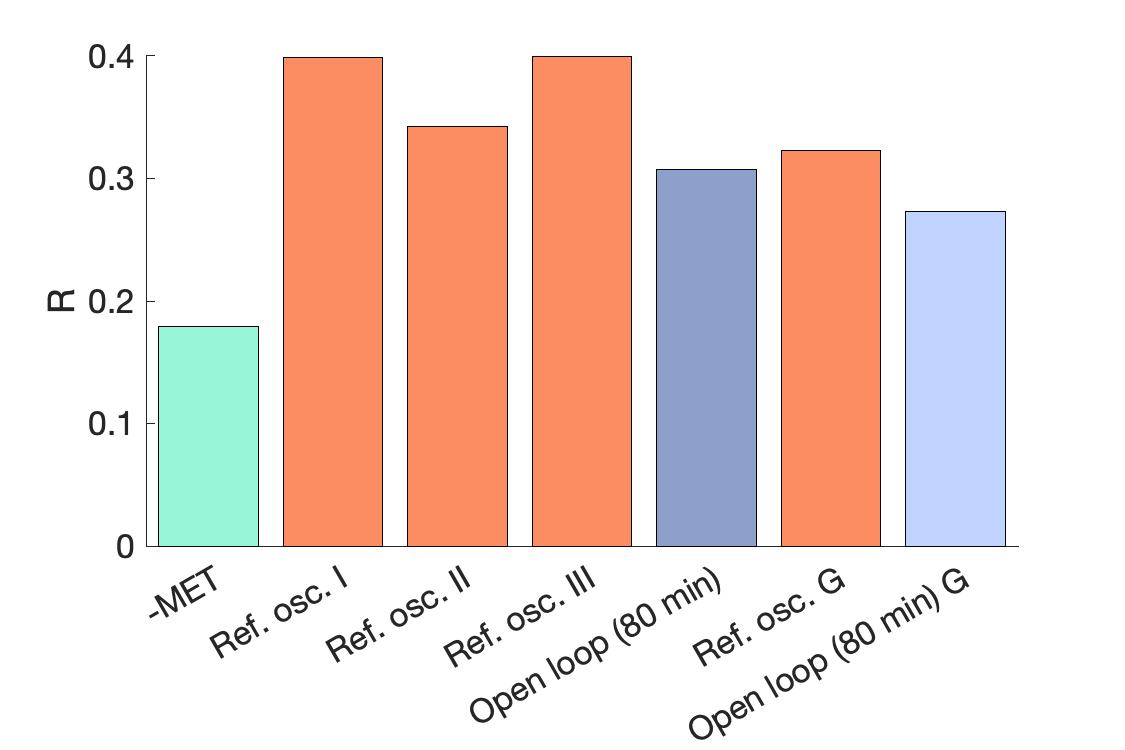
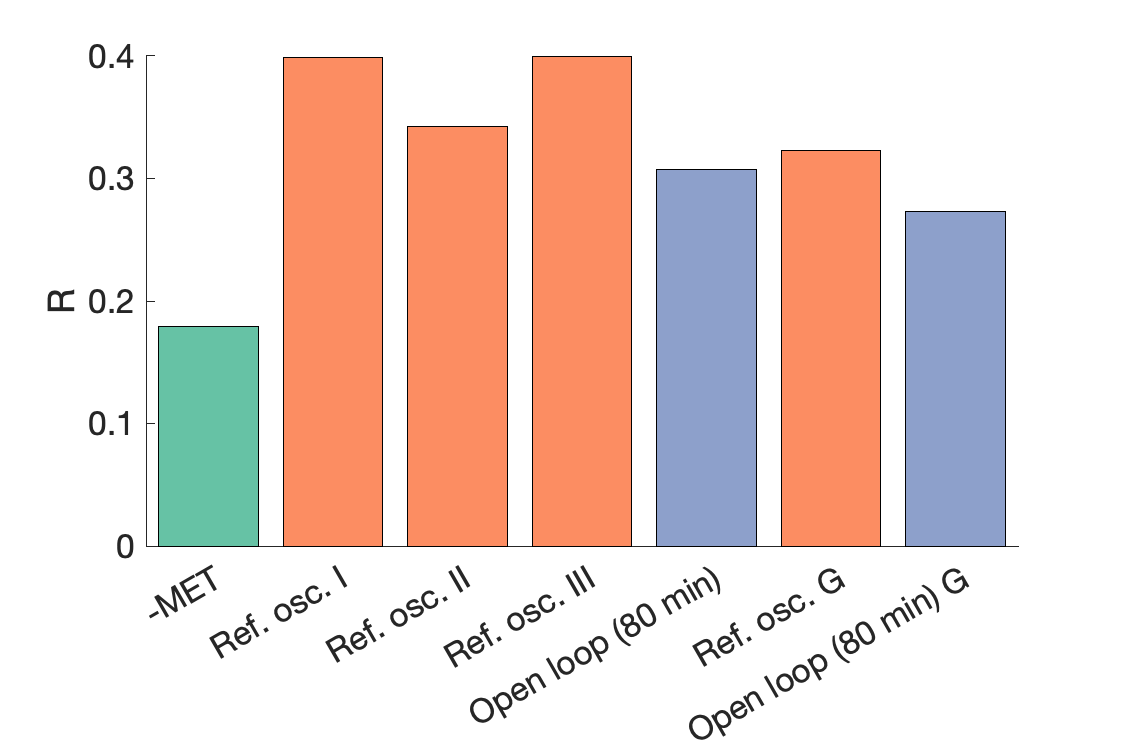
Major revision

Changed region(s): [[0.7778, 0.276, 0.9022, 0.736], [0.1244, 0.4293, 0.2489, 0.736]]

diff --git a/Computational_Analysis/NonCycling/make_SuppFig4.m b/Computational_Analysis/NonCycling/make_SuppFig4.m
@@ -1,5 +1,5 @@
 %% make_SuppFig4.m
-%%% FEBRUARY 11, 2021
+%%% FEBRUARY 12, 2021
 
 clear all
 
@@ -61,7 +61,6 @@ cMap = [0.4000    0.7608    0.6471;
         0.9882    0.5529    0.3843;
         0.5529    0.6275    0.7961];
 
-cMap_R = cMap; % Colormap for R
     
 %% Process the data to generate the Supp. Fig. 4
 for q = 1:numel(exp_list)
@@ -97,17 +96,6 @@ for q = 1:numel(exp_list)
     matr_trMean(:,q) = MeanFluo;
     matr_Rad(:,q) = radMEAN;
     
-    %% Assess the significance of R through Psi
-    tmp_Psi = Psi(tim_indx,1);
-    tmp_Psi = tmp_Psi(~isnan(tmp_Psi)); % Check if Psi contains NaN
-    Psi_R = abs(1./numel(tmp_Psi).*sum(exp(1i*tmp_Psi)));
-    V = 1 - Psi_R; % Circular variance V
-    
-    if V < .5
-        
-        cMap_R(q,:) = cMap(q,:)+.2;
-        
-    end
     
     %% Compute the PSD
     data_trMean = matr_trMean(tim_indx,q);
@@ -154,7 +142,7 @@ F_SFIG4a_ = figure('Position', [1 1 540 360], 'DefaultAxesFontSize', 16);
 hold on;
 tmp_b = bar(cat_VarNames, R_mean.');
 tmp_b.FaceColor = 'Flat';
-tmp_b.CData = cMap_R;
+tmp_b.CData = cMap;
 ylabel('R');
 print(F_SFIG4a_, './Figures/SuppFig4_a', '-dpng')
 

diff --git a/Computational_Analysis/Cycling/make_SFIG4.m b/Computational_Analysis/Cycling/make_SFIG4.m
@@ -52,7 +52,6 @@ cMap = [0.4000    0.7608    0.6471;
         0.9882    0.5529    0.3843;
         0.5529    0.6275    0.7961];
 
-cMap_R = cMap; % Colormap for R
     
 %% Process the data to generate the SFIG4
 for q = 1:numel(exp_list)
@@ -80,18 +79,6 @@ for q = 1:numel(exp_list)
     matr_trMean(:,q) = trMEAN;
     matr_Rad(:,q) = radMEAN;
     
-    
-    %% Assess the significance of R through Psi
-    tmp_Psi = Psi(1,tim_indx);
-    tmp_Psi = tmp_Psi(~isnan(tmp_Psi)); % Check if Psi contains NaN
-    Psi_R = abs(1./numel(tmp_Psi).*sum(exp(1i*tmp_Psi)));
-    V = 1 - Psi_R; % Circular variance V
-    
-    if V < .5
-        
-        cMap_R(q,:) = cMap(q,:)+.2;
-        
-    end
     
     %% Compute the PSD
     data_trMean = matr_trMean(tim_indx,q);
@@ -140,7 +127,7 @@ F_SFIG4b_ = figure('Position', [1 1 540 360], 'DefaultAxesFontSize', 16);
 hold on;
 tmp_b = bar(cat_VarNames, R_mean.');
 tmp_b.FaceColor = 'Flat';
-tmp_b.CData = cMap_R;
+tmp_b.CData = cMap;
 ylabel('R');
 print(F_SFIG4b_, './Figures/SFIG4b', '-dpng')
 
